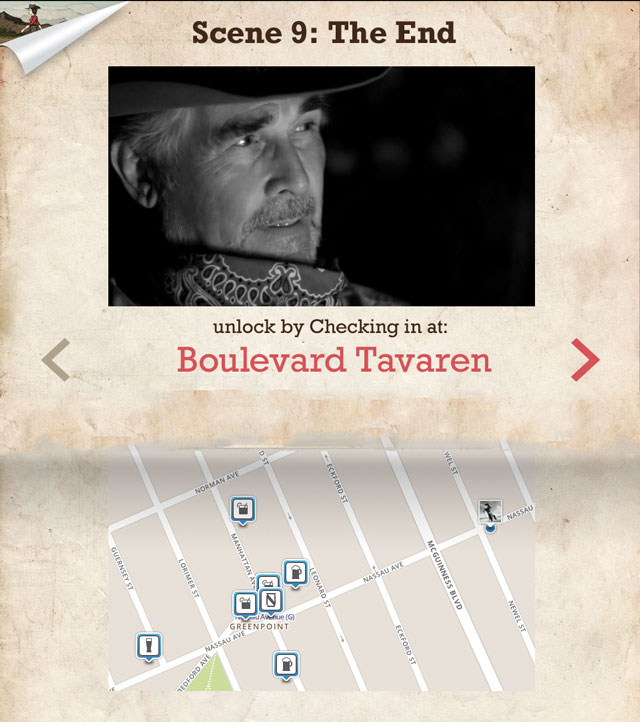
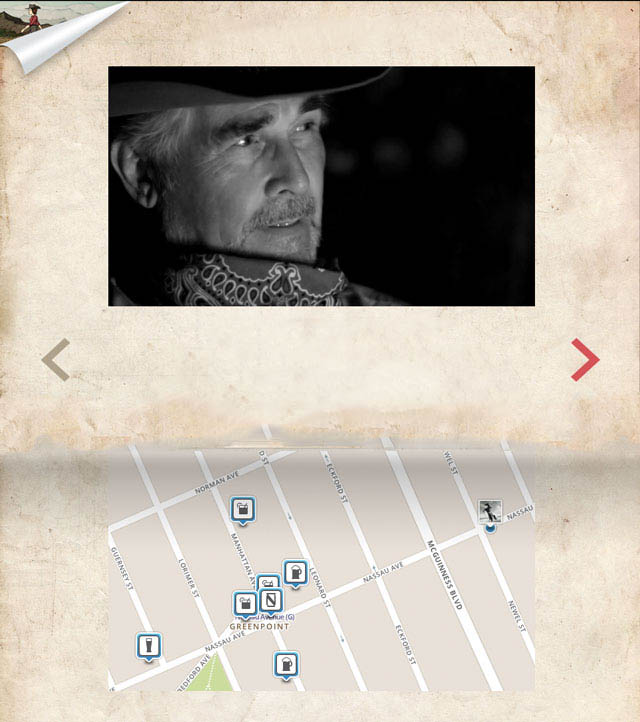
added checkin screen copy tweaks

diff --git a/tumbleweed/SceneController.m b/tumbleweed/SceneController.m
@@ -17,7 +17,7 @@
 
 @implementation SceneController
 
-@synthesize checkinScrollView, venueScrollView, venueDetailNib, movieThumbnailImageView, locationManager, moviePlayer, allVenues, scene, mvFoursquare, pinsLoaded, userCurrentLocation, checkinView, sceneTitle;
+@synthesize checkinScrollView, venueScrollView, venueDetailNib, movieThumbnailImageView, locationManager, moviePlayer, allVenues, scene, mvFoursquare, pinsLoaded, userCurrentLocation, checkinView, sceneTitle, checkInIntructions;
 
 
 
@@ -108,14 +108,14 @@
         UIImage *icon = [UIImage imageNamed:iconURL];
         //UIImage *icon = [UIImage imageWithData:[NSData dataWithContentsOfURL:[NSURL URLWithString:iconURL]]];
         //NSLog(@"lat%f, long%f", latitude, longitude);
-        //NSLog(@"icon url %@", iconURL);
+        NSLog(@"icon url %@", iconURL);
 
         [[NSBundle mainBundle] loadNibNamed:@"ListItemScrollView" owner:self options:nil];
        
         UILabel *nameLabel = (UILabel *)[venueDetailNib viewWithTag:1];
-        [nameLabel setFont:[UIFont fontWithName:@"rockwell" size:24]];
+        [nameLabel setFont:[UIFont fontWithName:@"rockwell" size:26]];
         [nameLabel setText:name];
-        UIColor *redText = [UIColor colorWithRed:212/255 green:83/255 blue:88/255 alpha:1.0];
+        UIColor *redText = [UIColor colorWithRed:212.0/255.0 green:83.0/255.0 blue:88.0/255.0 alpha:1.0];
         [nameLabel setTextColor:redText];
 
         offset = (int)(nibwidth + padding) * i; 
@@ -149,7 +149,7 @@
 
     }
     [mvFoursquare addAnnotations: annotations];
-    
+    [mvFoursquare selectAnnotation:[annotations objectAtIndex:0] animated:YES];
 }
 
 - (void) processRewards
@@ -206,6 +206,28 @@
 {
      moviePlayer = [[MPMoviePlayerViewController alloc] initWithContentURL:scene.moviePath];
     [self presentMoviePlayerViewControllerAnimated:moviePlayer];
+}
+
+- (void) searchSetup
+{
+    [activityIndicator setHidden:NO];
+    [activityIndicator startAnimating];
+    if (!scene.unlocked)
+    {
+        locationManager = [[CLLocationManager alloc] init];
+        [locationManager setDelegate:self];
+        [locationManager startUpdatingLocation];
+    }
+    else
+    {
+        //[self animateRewards];
+    }
+}
+
+- (IBAction)refreshSearch:(id)sender
+{
+    scene.recentSearchVenueResults = Nil;
+    [self searchSetup];
 }
 
 #pragma mark - Required CoreLocation methods
@@ -308,6 +330,9 @@
         annotationView.canShowCallout = YES;
         annotationView.image = ((FoursquareAnnotation *)annotation).icon;
         
+        //[mvFoursquare selectAnnotation:[annotations objectAtIndex:0] animated:YES];
+
+        
         // Create a UIButton object to add on the 
         UIButton *rightButton = [UIButton buttonWithType:UIButtonTypeDetailDisclosure];
         [rightButton setTitle:annotation.title forState:UIControlStateNormal];
@@ -347,12 +372,6 @@
     }
 }
 
-#pragma mark - ScrollView Delegates
-
-- (void)scrollViewDidScroll:(UIScrollView *)sView
-{
-    
-}
 
 #pragma mark - View lifecycle
 
@@ -361,31 +380,27 @@
 {
     [super viewDidLoad];
     // Do any additional setup after loading the view from its nib.
-    [activityIndicator setHidden:NO];
-    [activityIndicator startAnimating];
+    [self searchSetup];
     //[self processRewards];
+    
     [movieThumbnailImageView setImage:scene.movieThumbnail];
     sceneTitle.text = scene.name;
     sceneTitle.font = [UIFont fontWithName:@"rockwell" size:26];
-    UIColor *redText = [UIColor colorWithRed:212/255 green:83/255 blue:88/255 alpha:1.0];
-    [sceneTitle setTextColor:redText];
-    if (!scene.unlocked)
-    {
-        locationManager = [[CLLocationManager alloc] init];
-        [locationManager setDelegate:self];
-        [locationManager startUpdatingLocation];
-    }
-    else
-    {
-        [self animateRewards];
-    }
+    UIColor *brownText = [UIColor colorWithRed:62.0/255.0 green:43.0/255.0 blue:26.0/255.0 alpha:1.0];
+    [sceneTitle setTextColor:brownText];
+    checkInIntructions.text = scene.checkInCopy;
+    checkInIntructions.font = [UIFont fontWithName:@"rockwell" size:17];
+    [checkInIntructions setTextColor:brownText];
+    
     CGSize screenSize = CGSizeMake(480, 600.0);
     checkinScrollView.contentSize = screenSize;
     checkinScrollView.showsHorizontalScrollIndicator = NO;
     checkinScrollView.showsVerticalScrollIndicator = NO;
     checkinScrollView.bounces = NO;
+    checkinScrollView.pagingEnabled = YES;
     [checkinScrollView setDelegate:self];
     [checkinScrollView addSubview:checkinView];
+    venueScrollView.pagingEnabled = YES;
 
     
     

diff --git a/tumbleweed/SceneController.h b/tumbleweed/SceneController.h
@@ -20,6 +20,7 @@
     IBOutlet UIScrollView *checkinScrollView;
     IBOutlet UIView *checkinView;
     IBOutlet UILabel *sceneTitle;
+    IBOutlet UILabel *checkInIntructions;
     IBOutlet UIScrollView *venueScrollView;
     IBOutlet UIView *venueDetailNib;
     IBOutlet UIImageView *movieThumbnailImageView;
@@ -35,6 +36,7 @@
 @property (nonatomic, retain) UIScrollView *checkinScrollView;
 @property (nonatomic, retain) UIScrollView *venueScrollView;
 @property (nonatomic, retain) UILabel *sceneTitle;
+@property (nonatomic, retain) UILabel *checkInIntructions;
 @property (nonatomic, retain) UIView *checkinView;
 @property (nonatomic, retain) UIView *venueDetailNib;
 @property (nonatomic, retain) UIImageView *movieThumbnailImageView;
@@ -55,6 +57,8 @@
 - (void) processVenues: (NSArray *) items;
 - (void) processRewards;
 - (void) animateRewards;
+- (void) searchSetup;
+- (IBAction)refreshSearch:(id)sender;
 
 // touch events
 - (IBAction)handleSingleTap:(UIGestureRecognizer *)sender;

diff --git a/tumbleweed/Tumbleweed.m b/tumbleweed/Tumbleweed.m
@@ -96,13 +96,15 @@ static Tumbleweed *weed = nil;
 - (void) setSceneConstants
 {
 
-    gasStation.name = @"gasStation";
+    gasStation.name = @"The Gas Station";
     gasStation.categoryId = GAS_TRAVEL_catId;
     gasStation.moviePath = [NSURL fileURLWithPath:[[NSBundle mainBundle] pathForResource:@"gasStation"
                                                                                   ofType:@"mp4"]];
     gasStation.movieThumbnail = [UIImage imageNamed:@"Gas_Station_thumbnail.jpg"];
     //gasStation.movieThumbnail = [UIImage imageWithContentsOfFile: [[NSBundle mainBundle] pathForResource:@"Gas_Station_thumbnail" ofType:@"jpg"]];
     gasStation.posterArt = [UIImage imageNamed:@"bubble5.png"];
+    gasStation.hintCopy = @"Fill up your tank, bitch.";
+    gasStation.checkInCopy = @"unlock by checking in at:";
     gasStation.accessible = true;
 
     deal.name = @"deal";

diff --git a/tumbleweed/Scene.m b/tumbleweed/Scene.m
@@ -10,7 +10,8 @@
 
 @implementation Scene
 
-@synthesize name, categoryId, moviePath, movieThumbnail, posterArt, unlocked, accessible, checkInResponse, recentSearchVenueResults, date;
+@synthesize name, categoryId, moviePath, movieThumbnail, posterArt, unlocked, accessible, checkInResponse, recentSearchVenueResults, date, hintCopy, checkInCopy, checkedVenue;
+
 
 - (id) init
 {
@@ -44,6 +45,11 @@
     [encoder encodeObject:recentSearchVenueResults forKey:@"recentSearchVenueResults"];
     [encoder encodeObject:date forKey:@"dateCreated"];
 
+}
+
+- (NSString*) getCheckedVenue
+{
+    return [[[self.checkInResponse objectForKey:@"response"] objectForKey:@"checkin"]  objectForKey:@"name"];
 }
 
 

diff --git a/tumbleweed/Scene.h b/tumbleweed/Scene.h
@@ -26,7 +26,9 @@
     NSDictionary *checkInResponse;
     NSDictionary *recentSearchVenueResults;
     NSDate *date;   //unlockDate
-    // unlock location
+    NSString *checkedVenue;  //location of unlock
+    NSString *hintCopy;
+    NSString *checkInCopy;
 
 }
 
@@ -40,6 +42,9 @@
 @property (nonatomic, retain) NSDictionary *checkInResponse;
 @property (nonatomic, retain) NSDictionary *recentSearchVenueResults;
 @property (nonatomic, retain) NSDate *date;
+@property (nonatomic, retain) NSString *checkedVenue;
+@property (nonatomic, retain) NSString *hintCopy;
+@property (nonatomic, retain) NSString *checkInCopy;
 
 
 
